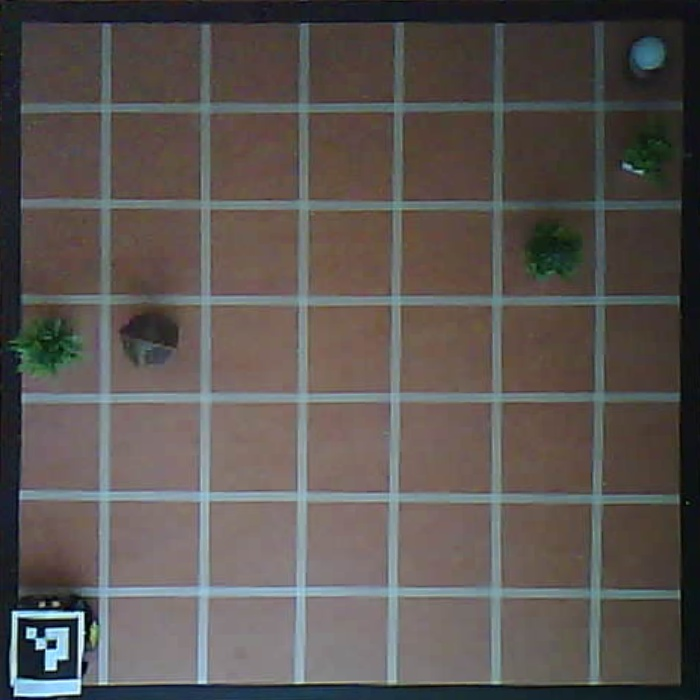
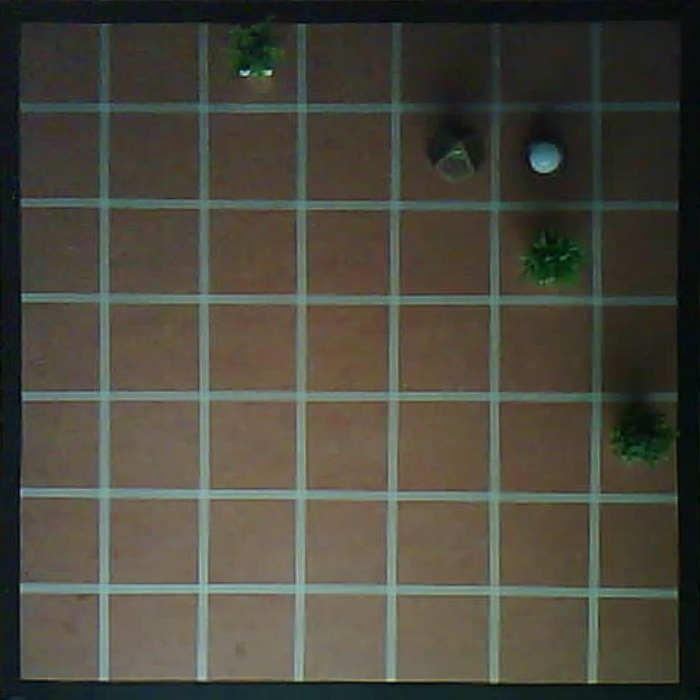
test: refresh physical grid calibration

diff --git a/tests/unit/test_grid_calibration_loading.py b/tests/unit/test_grid_calibration_loading.py
@@ -35,10 +35,10 @@ class GridCalibrationLoadingTests(unittest.TestCase):
         self.assertEqual(
             calibration.source_points,
             (
-                (158.0, 8.0),
-                (648.0, 14.0),
-                (627.0, 496.0),
-                (162.0, 487.0),
+                (145.0, 44.0),
+                (629.0, 50.0),
+                (616.0, 528.0),
+                (143.0, 526.0),
             ),
         )
 
